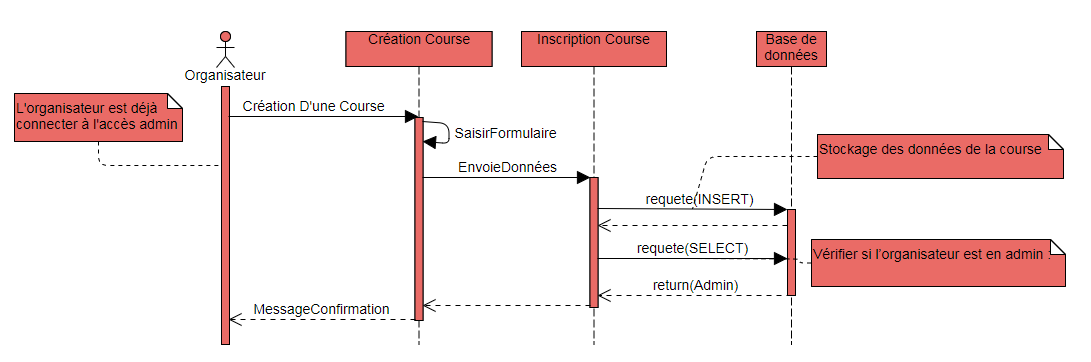
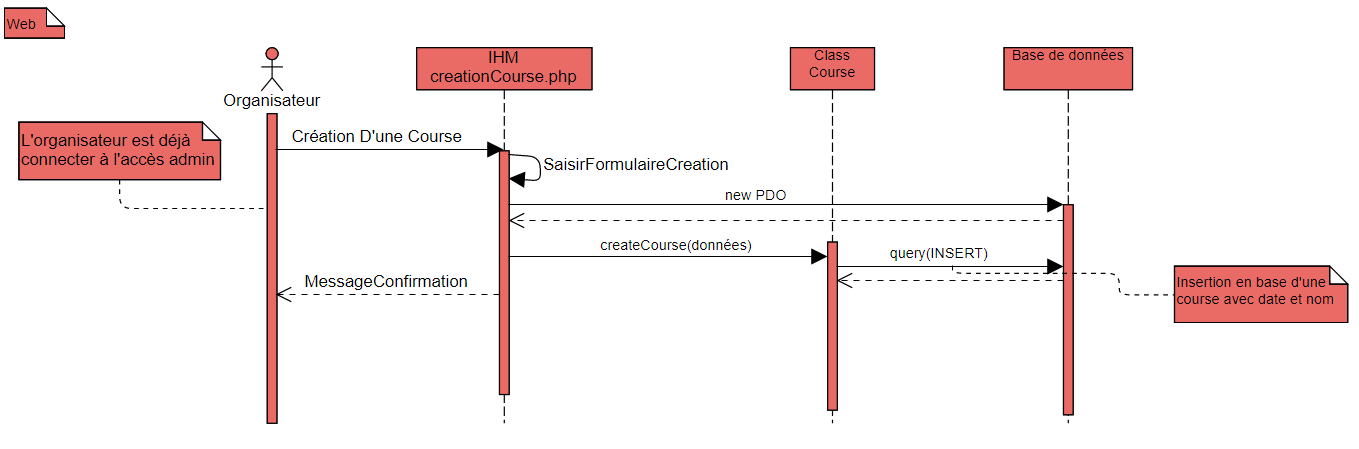
menu deroulant select nom course et maj carnet de bord et seq

diff --git a/WEB/creationTour.php b/WEB/creationTour.php
@@ -1,0 +1,14 @@
+<?php
+/*********************************
+Paramétrage du tour : Distance selon le nom de la course
+ ********************************/
+session_start();
+require_once("bdd.php");
+require("class/classTour.php");
+
+$req = $this->_bdd-> query("SELECT crs_nom FROM course_tbl");
+echo '<select name="nomCourse">';
+while ($donnees->fetch($req)) {
+    echo '<option value="' . $donnees['crs_nom'] . '"></option>';
+}
+echo '</select>';
